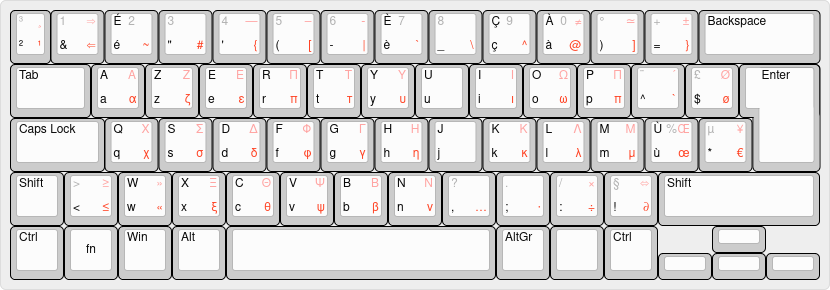
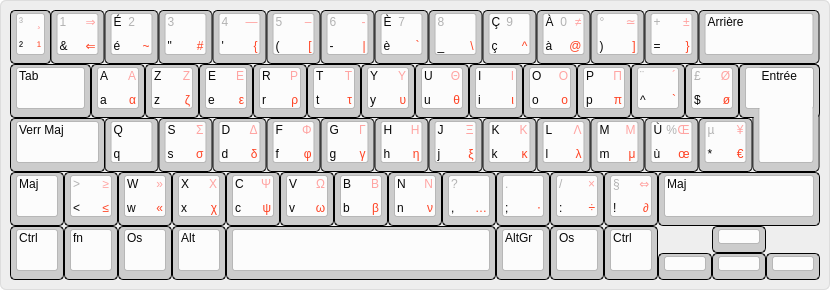
config et installation

diff --git a/README.md b/README.md
@@ -1,7 +1,7 @@
 # Clavier fr-sci
 
 ## Description
-Configuration d'un clavier azerty. La principale différence est l'ajout des lettres grecques.
+Configuration d'un clavier azerty. La principale différence est l'ajout des lettres grecques et de quelques caractères mathématiques.
 
 ![Disposition clavier](https://github.com/hadrien-lem/clavier-fr-sci/blob/master/keyboard-layout.png)
 
@@ -10,18 +10,7 @@ Le fichier `keyboard-layout.json` est à utiliser sur http://www.keyboard-layout
 ## Installation
 Pour Linux via xkb :
 
-* Ajouter le contenu de `fr-sci.txt` à la fin de `/usr/share/X11/xkb/symbols/fr`
-* Ajouter le code ci-dessous à l'intérieur de `/usr/share/X11/xkb/rules/evdev.xml` dans la section souhaitée
-```xml
-<variant>
-  <configItem>
-    <name>fr-sci</name>
-    <description>French (fr-sci)</description>
-  </configItem>
-</variant>
-```
-* Se déconnecter/redémarrer
-* Changer la configuration clavier dans les paramètres
+* Exécuter le script `install`
+* Ajouter `setxkbmap -layout fr -variant fr_sci` dans `.xinitrc`. 
 
-
-Testé sur Arch Gnome-Wayland.
+Testé sur Arch.
